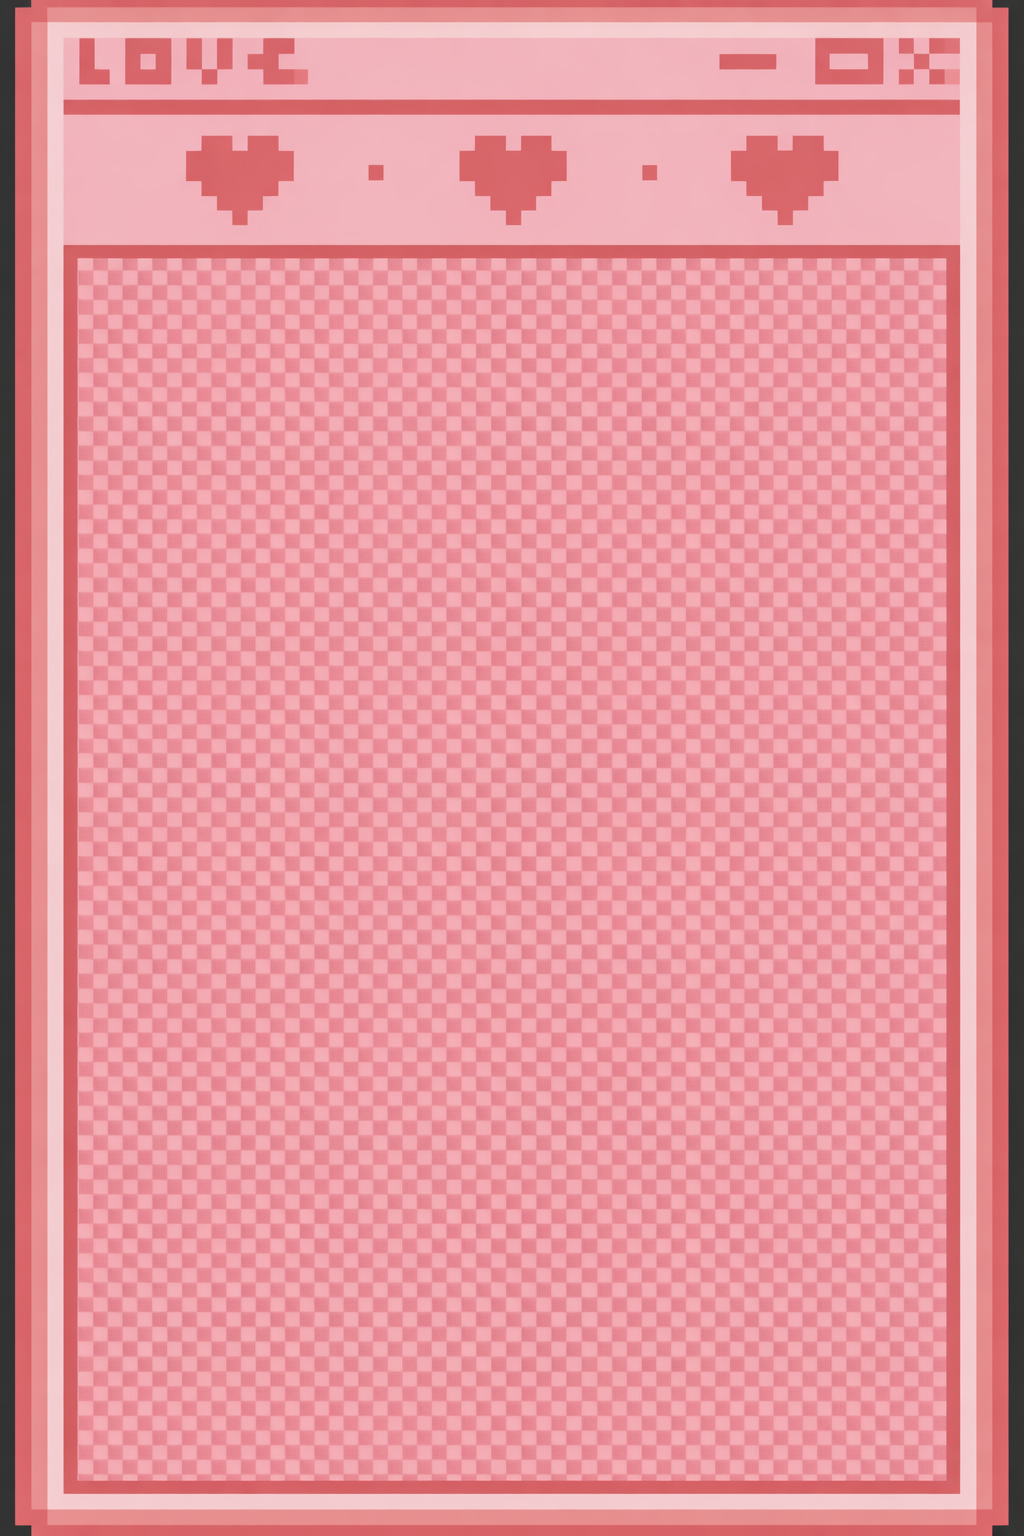
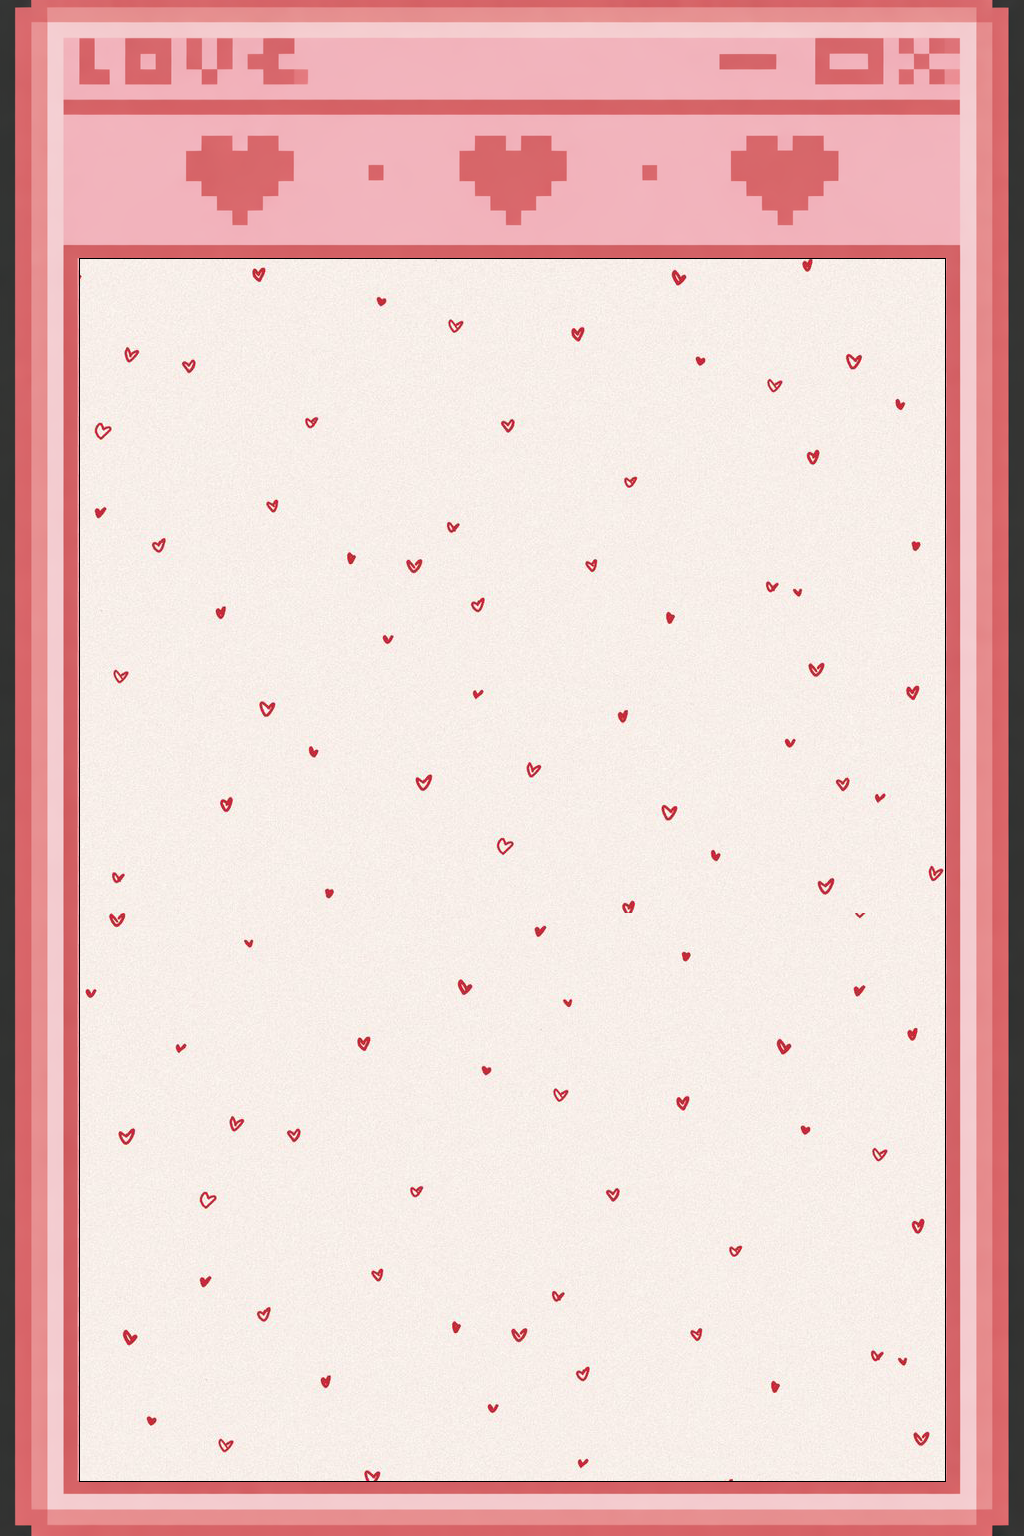
added new songs and toggles

diff --git a/style.css b/style.css
@@ -372,7 +372,7 @@ p {
 #next-btn {
     position: fixed;
     left: 50%;
-    bottom: 65px;
+    bottom: 60px;
     transform: translateX(-50%);
     width: 130px;
     max-width: 26vw;
